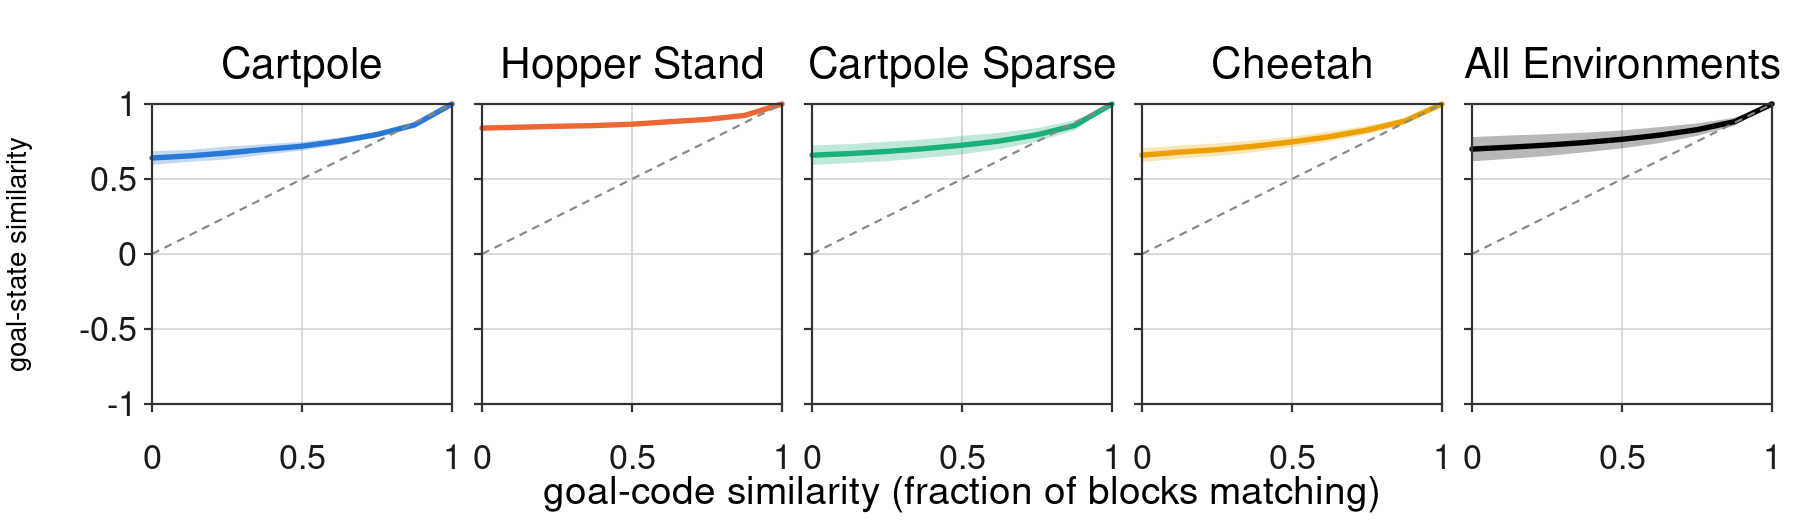
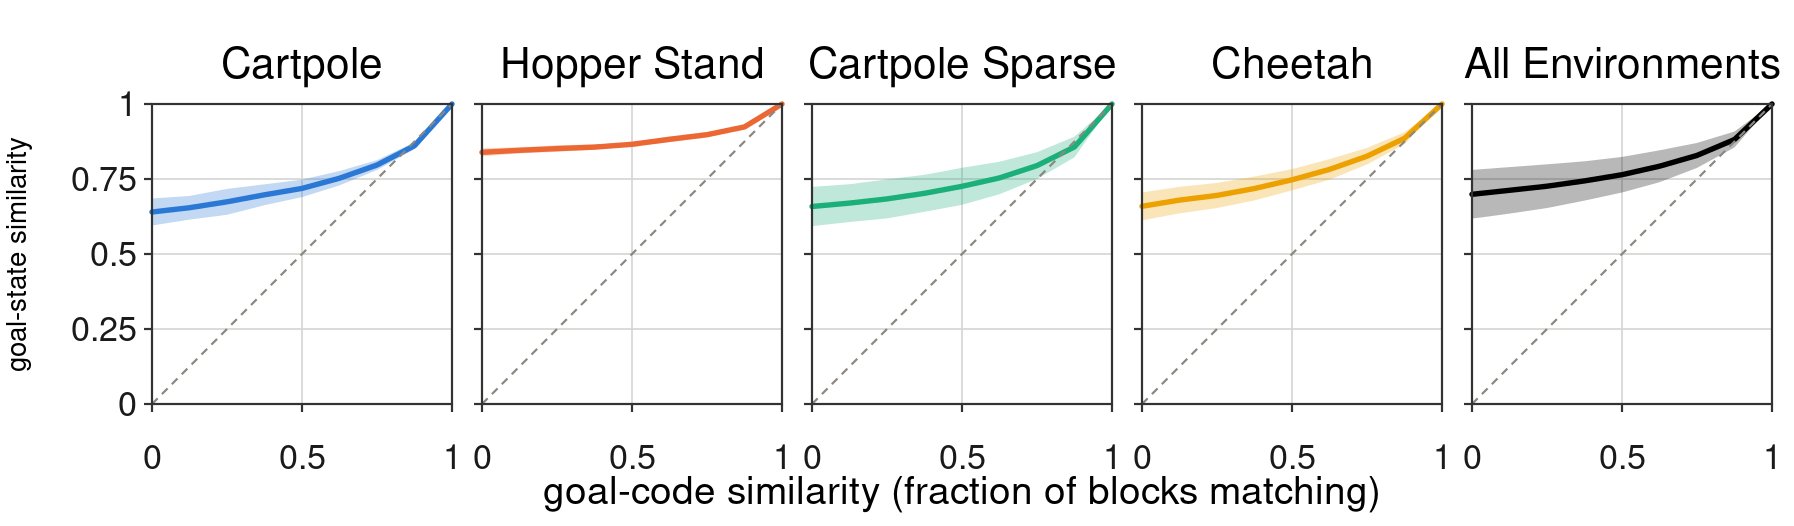
row layout: y axis back to [0, 1]
cosine_max reaches -1 and a mean over disjoint pairs really can get there --
the -1/(N-1) bound applies to all-pairs means within a set, not to this
statistic -- but -1 requires every partner to decode to the exact OPPOSITE
goal, which is not the property being measured. The target for maximally
dissimilar codes is UNRELATED goals, and independent directions in this
1024-dim space measure 0.0002 +/- 0.031, so 0 is the meaningful floor. The
diagonal is corner-to-corner again.

Claude-Session: https://claude.ai/code/session_01UoFNqat22AbqJsV7sCUJhH

diff --git a/experiments/goal_geometry/plot_code_sim_to_state_sim.py b/experiments/goal_geometry/plot_code_sim_to_state_sim.py
@@ -257,7 +257,7 @@ def build_row(data, sub):
        f'viewBox="0 0 {W} {H}" font-family="Helvetica,Arial,sans-serif">',
        f'<rect width="{W}" height="{H}" fill="white"/>']
 
-  YT = (-1.0, -0.5, 0.0, 0.5, 1.0)
+  YT = (0.0, 0.25, 0.5, 0.75, 1.0)
   XT = (0.0, 0.5, 1.0)
   for k, (label, color, arr) in enumerate(panels):
     x0 = PL + k * (P + GAP)
@@ -268,9 +268,13 @@ def build_row(data, sub):
       return x0 + (1.0 - i / (nb - 1)) * P
 
     def sy(v):
-      # full cosine_max range: the metric reaches -1 for opposed vectors, and
-      # cropping at 0 makes an 0.84 floor look far closer to the ceiling
-      return PT + (1.0 - v) / 2.0 * P
+      # y spans [0, 1]. cosine_max itself reaches -1, and a mean over disjoint
+      # pairs really can get there, but -1 needs every partner to decode to the
+      # exact OPPOSITE goal, which is not the property being asked about. The
+      # target for maximally dissimilar codes is UNRELATED goals -- independent
+      # directions in this 1024-dim space measure 0.0002 +/- 0.031 -- so 0 is
+      # the meaningful floor and the axis ends there.
+      return PT + (1.0 - v) * P
 
     for v in YT:
       o.append(f'<line x1="{x0}" y1="{sy(v):.1f}" x2="{x0 + P}" '
@@ -281,7 +285,7 @@ def build_row(data, sub):
                f'y2="{PT + P}" stroke="{GRIDC}" stroke-width="1.7"/>')
 
     band = ([(sx(i), sy(min(m[i] + sd[i], 1.0))) for i in range(nb)] +
-            [(sx(i), sy(max(m[i] - sd[i], -1.0))) for i in range(nb)][::-1])
+            [(sx(i), sy(max(m[i] - sd[i], 0.0))) for i in range(nb)][::-1])
     o.append('<polygon points="%s" fill="%s" fill-opacity="0.28"/>' %
              (' '.join(f'{x:.1f},{y:.1f}' for x, y in band), color))
     o.append('<polyline points="%s" fill="none" stroke="%s" stroke-width="5.4" '
